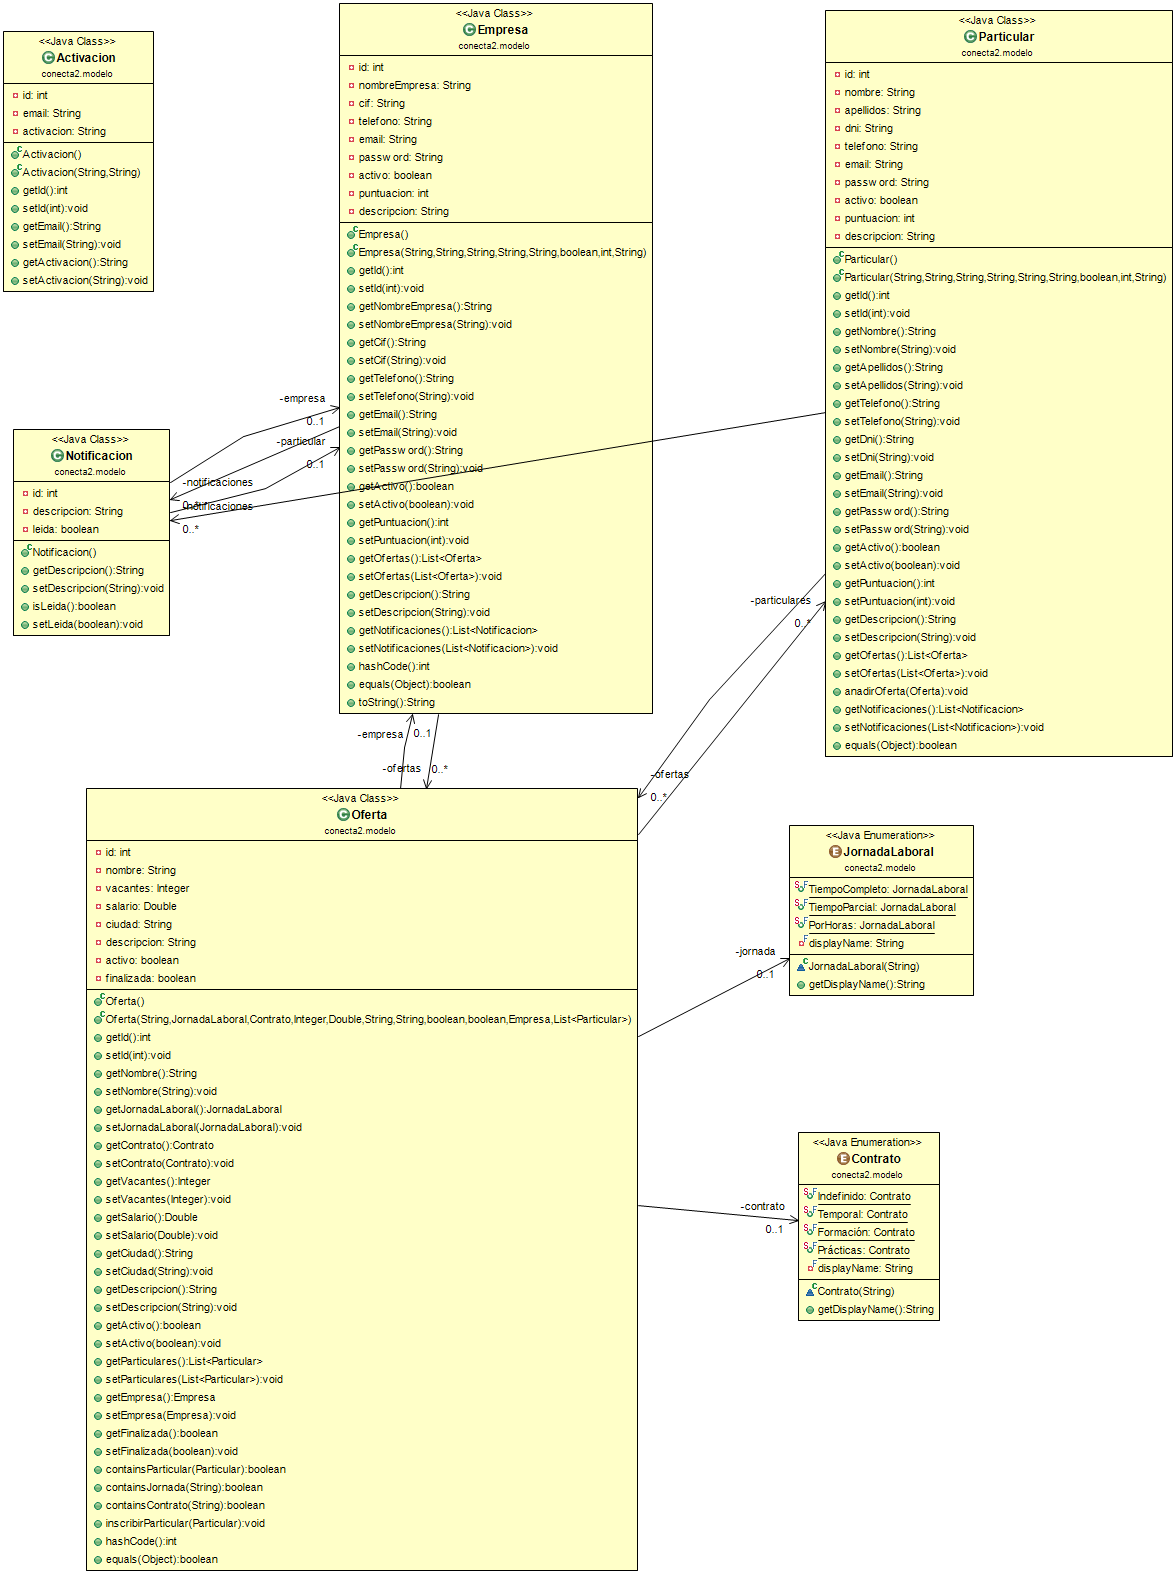
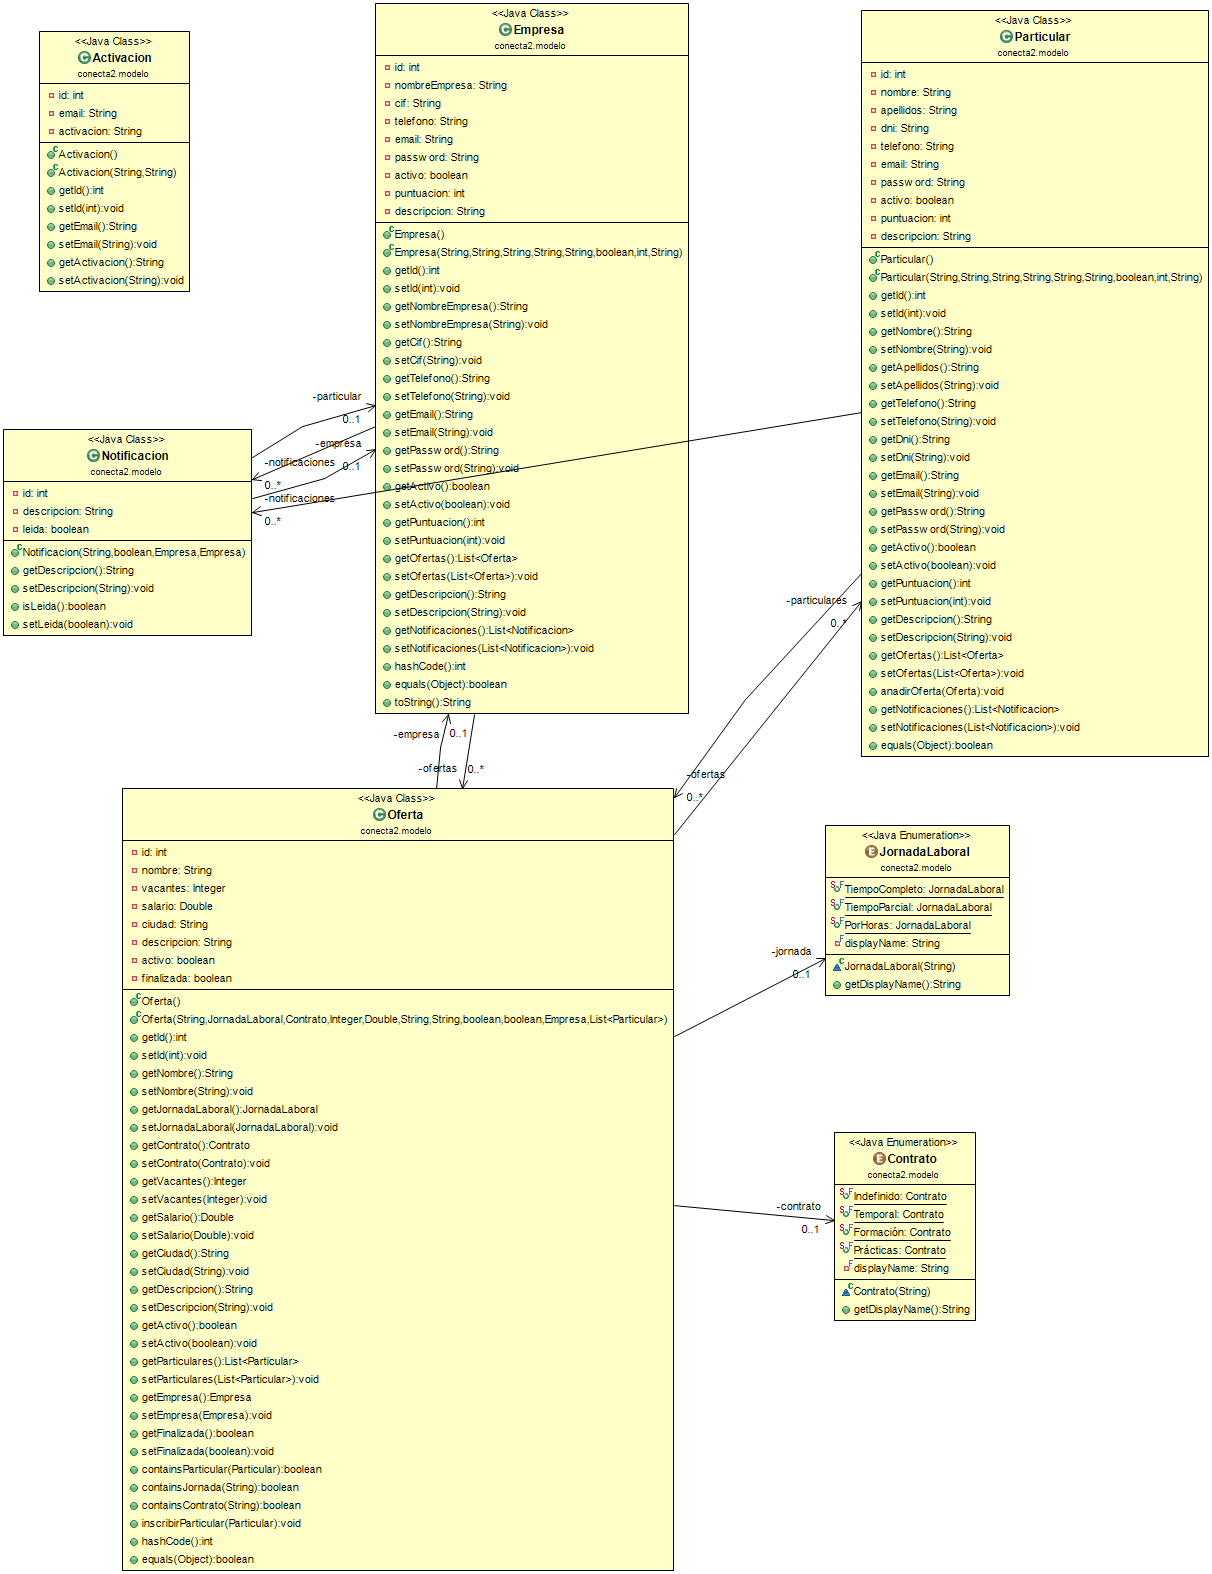
Faltaba constructor en notificaciones

diff --git a/src/main/java/conecta2/modelo/Notificacion.java b/src/main/java/conecta2/modelo/Notificacion.java
@@ -27,8 +27,12 @@ public class Notificacion {
 	@ManyToOne (fetch=FetchType.EAGER)
 	private Empresa particular;
 	
-	public Notificacion() {
-		// TODO Auto-generated constructor stub
+	public Notificacion(String descripcion, boolean leida, Empresa empresa, Empresa particular) {
+		
+		this.descripcion = descripcion;
+		this.leida = leida;
+		this.empresa = empresa;
+		this.particular = particular;
 	}
 
 	public String getDescripcion() {
